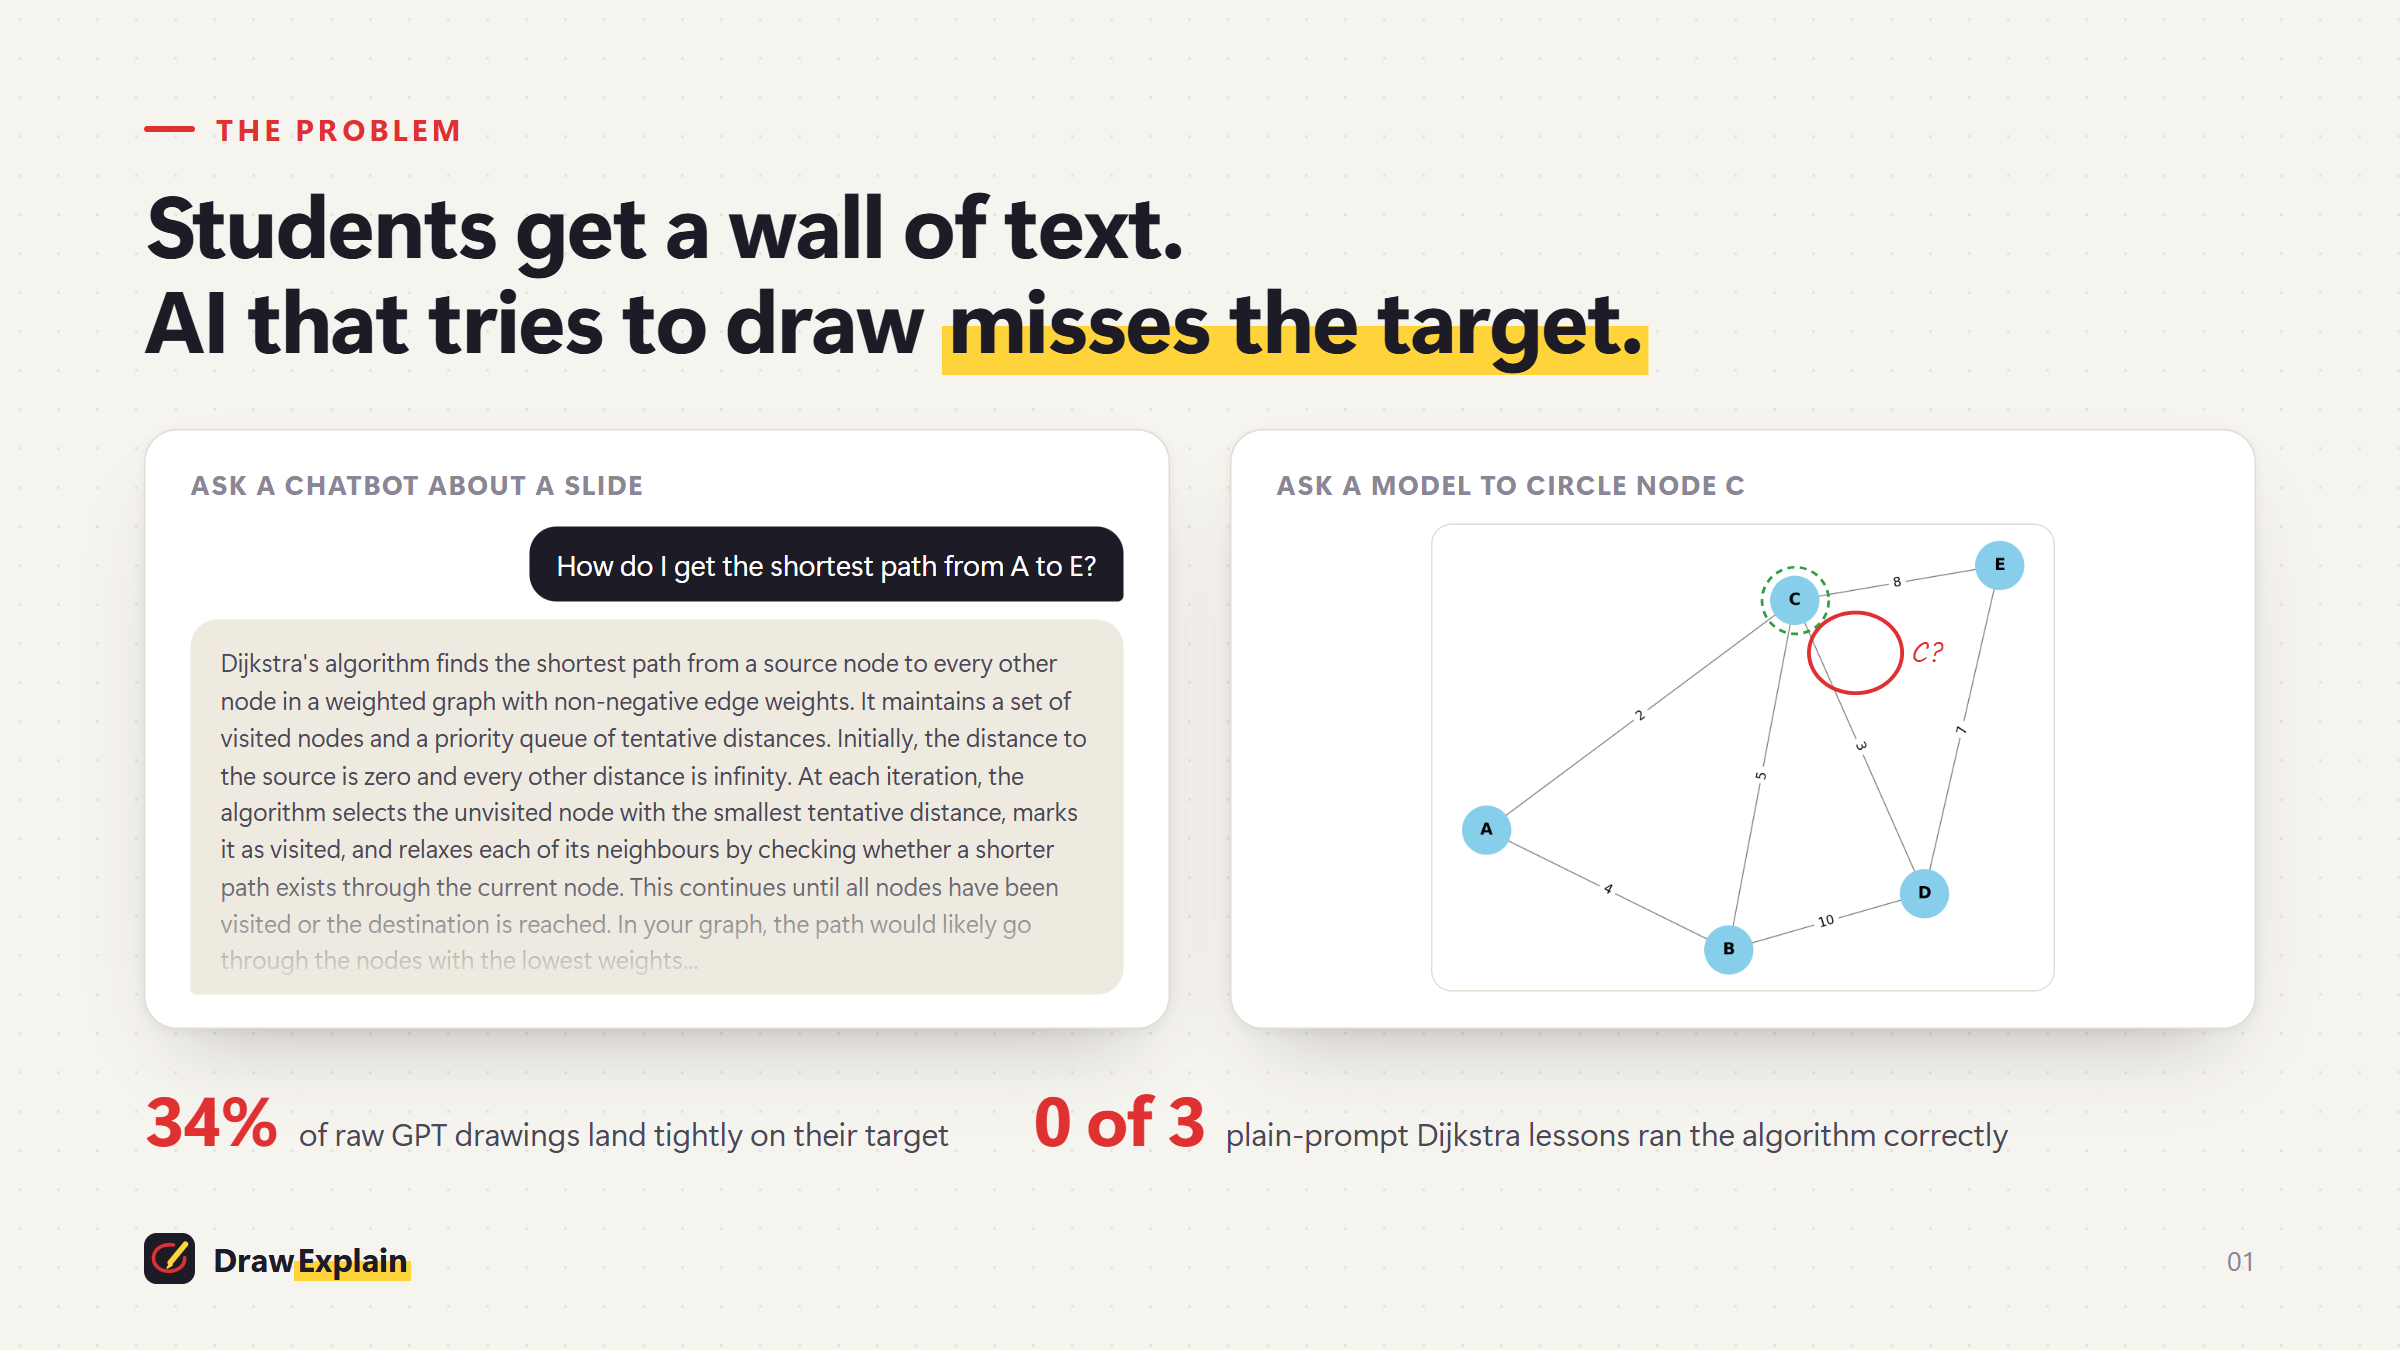
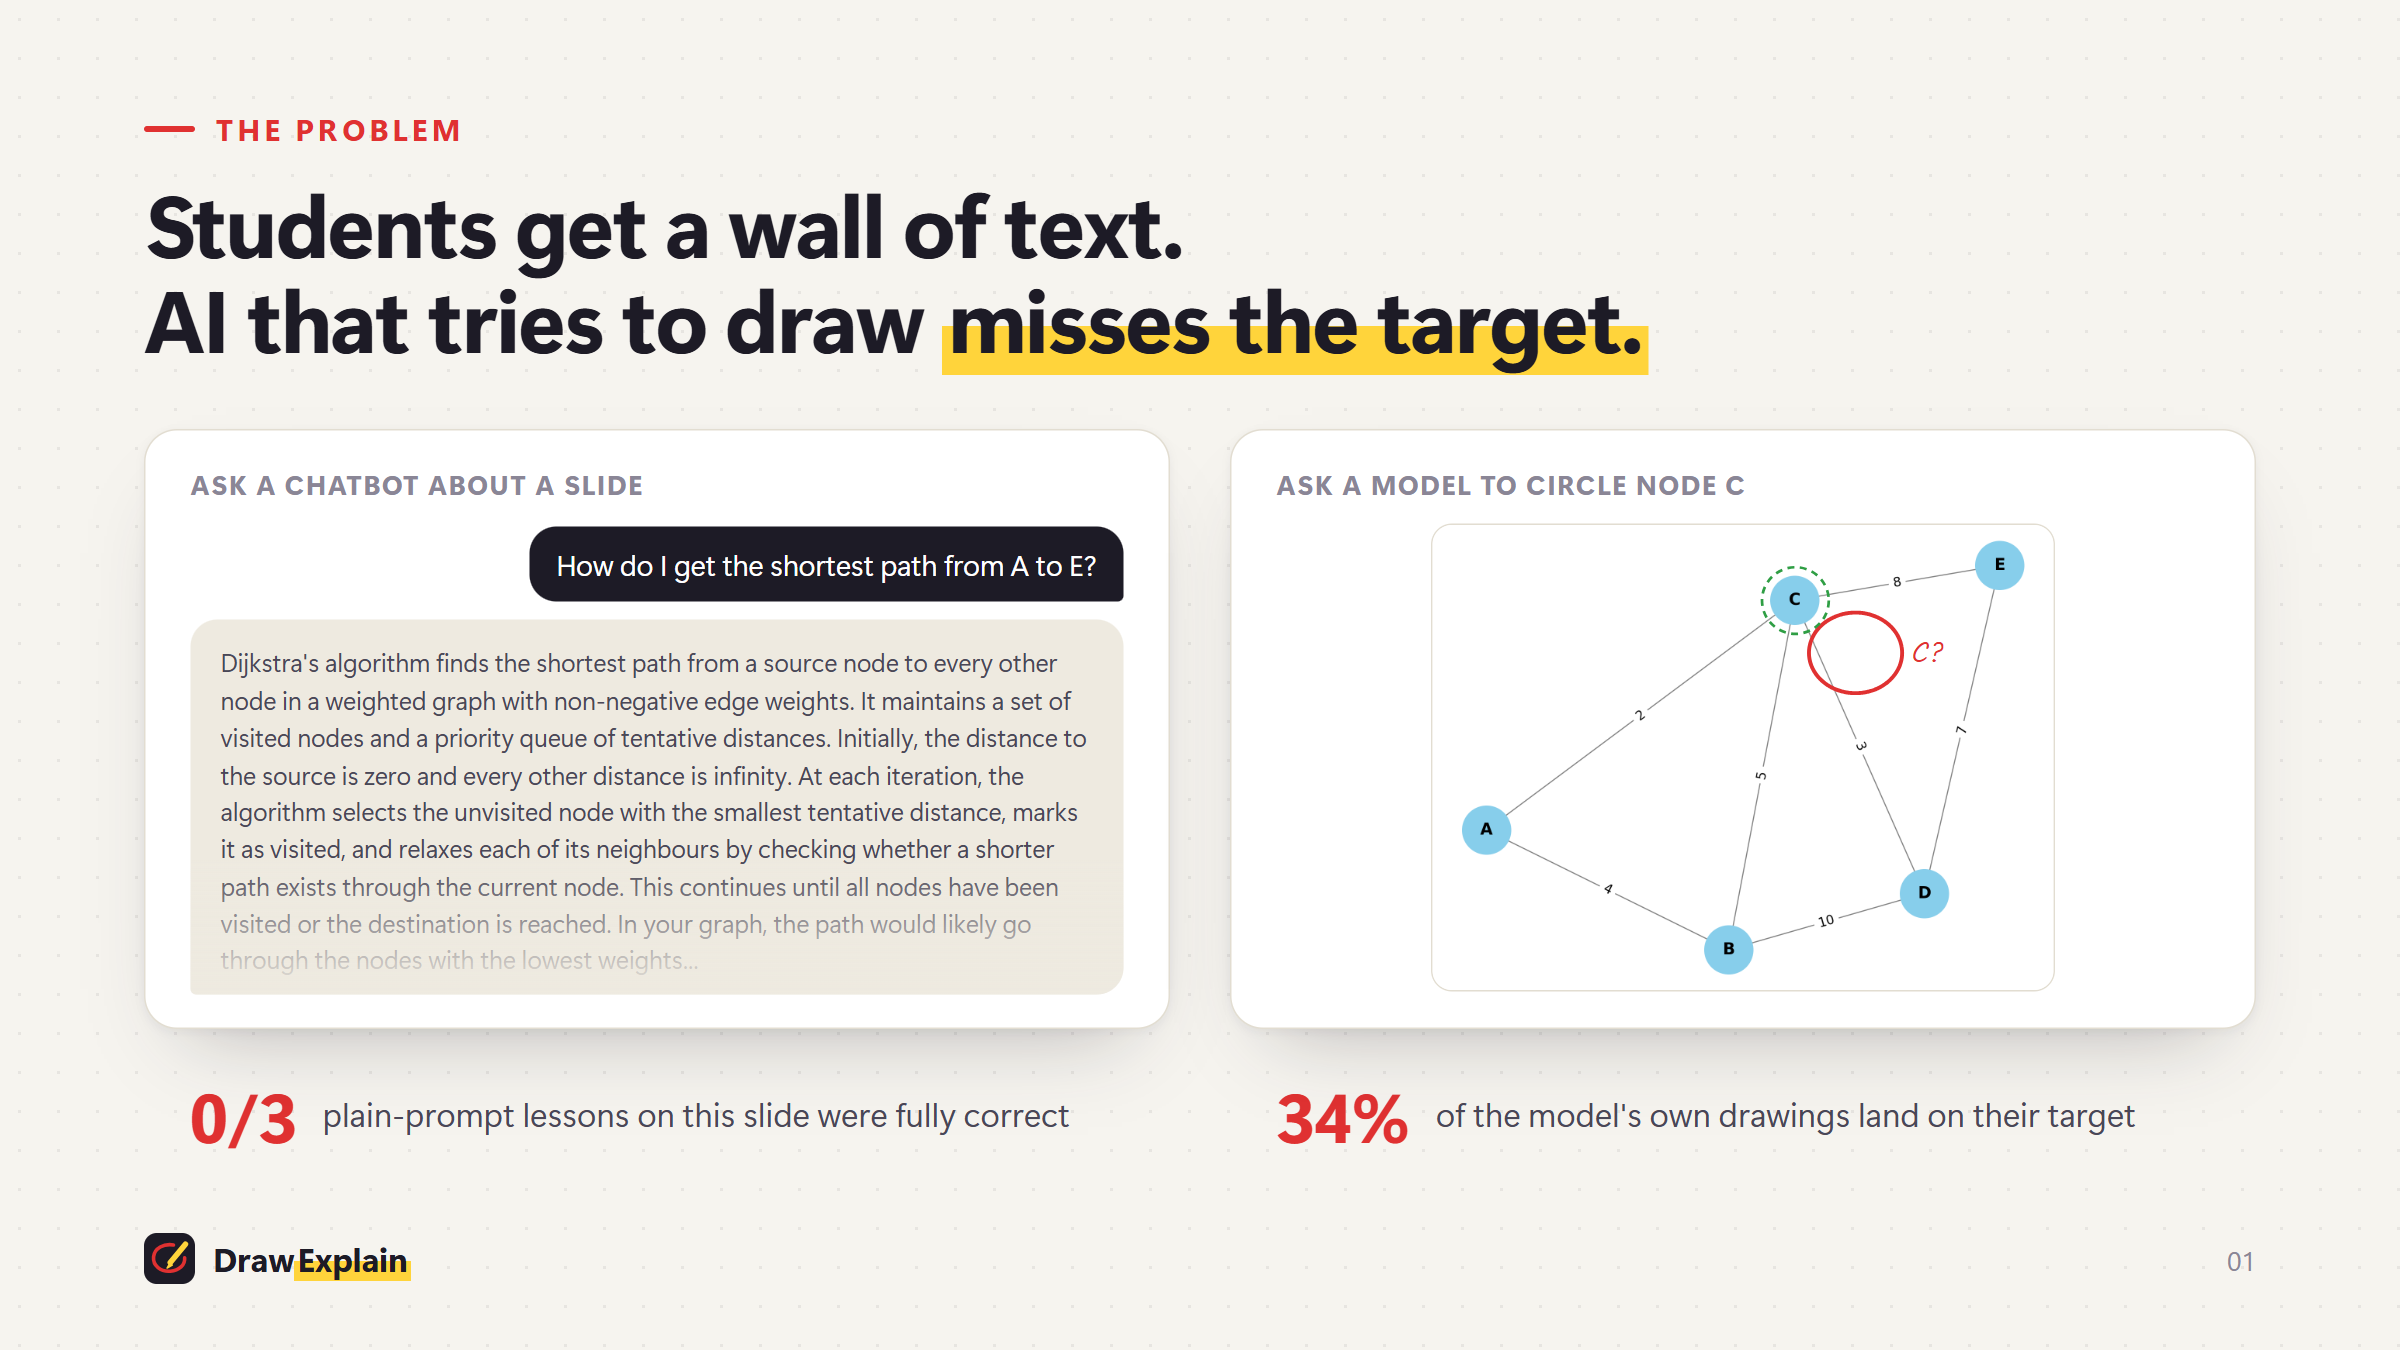
Clarify problem graphic stats and layout

Changed region(s): [[0.0625, 0.8089, 0.9062, 0.8711]]

diff --git a/docs/graphics/source/graphics.html b/docs/graphics/source/graphics.html
@@ -50,8 +50,9 @@
           border: 1px solid var(--line); }
   .miss img { display: block; width: 100%; height: 100%; }
   .miss svg { position: absolute; inset: 0; width: 100%; height: 100%; }
-  .stat-row { display: flex; gap: 56px; margin-top: 28px; }
-  .stat { display: flex; align-items: baseline; gap: 14px; font-size: 21px; color: var(--ink-2); }
+  .stat-row { display: grid; grid-template-columns: 1fr 1fr; gap: 40px; margin-top: 26px; }
+  .stat { display: flex; align-items: center; gap: 18px; font-size: 22px; line-height: 1.35; color: var(--ink-2); padding: 0 30px; }
+  .stat span { max-width: 640px; }
   .stat b { font-size: 46px; color: var(--red); font-weight: 800; letter-spacing: -0.02em; }
 
   /* 2 solution */
@@ -158,8 +159,8 @@
     </div>
   </div>
   <div class="stat-row">
-    <div class="stat"><b>34%</b> of raw GPT drawings land tightly on their target</div>
-    <div class="stat"><b>0 of 3</b> plain-prompt Dijkstra lessons ran the algorithm correctly</div>
+    <div class="stat"><b>0/3</b><span>plain-prompt lessons on this slide were fully correct</span></div>
+    <div class="stat"><b>34%</b><span>of the model's own drawings land on their target</span></div>
   </div>
   <div class="brand"><svg width="34" height="34"><use href="#logo" /></svg><span>Draw<span class="x">Explain</span></span></div>
   <div class="page-no">01</div>
